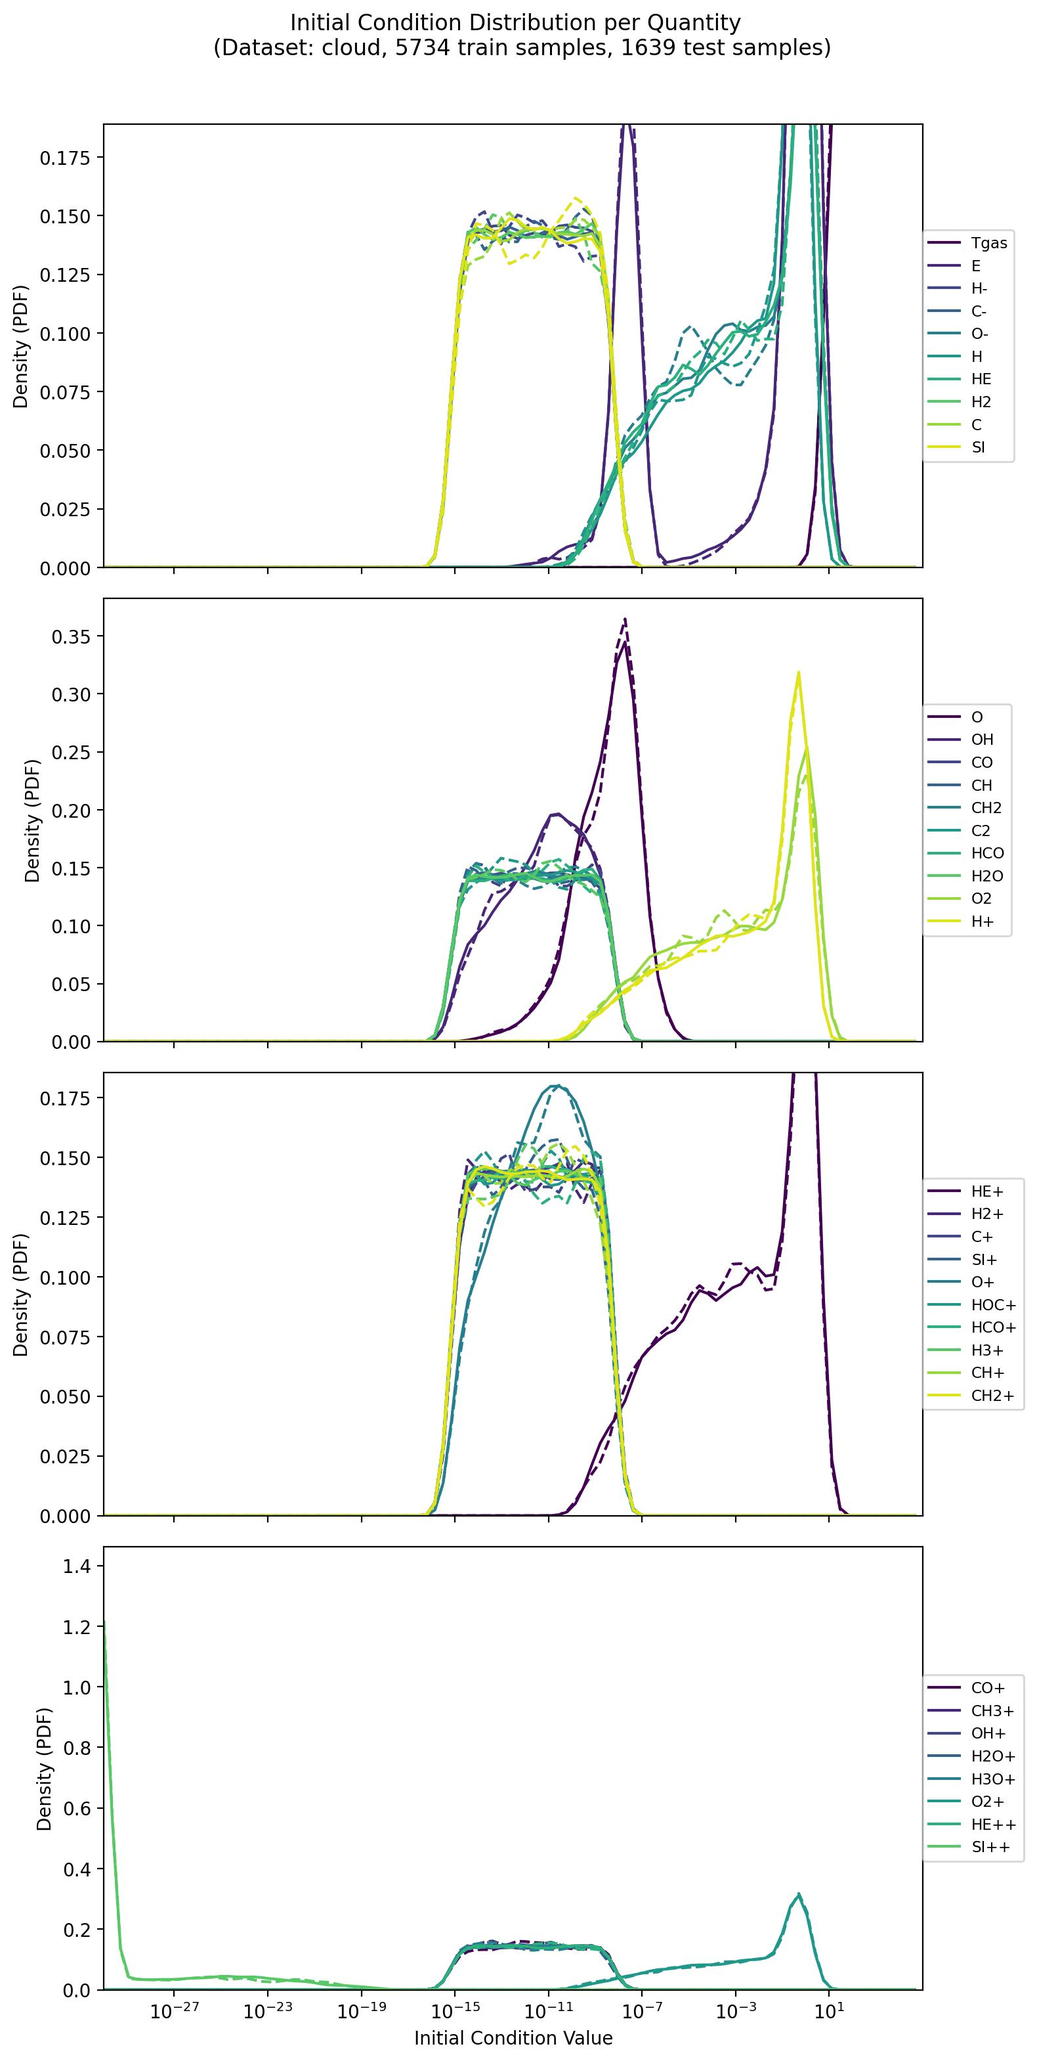
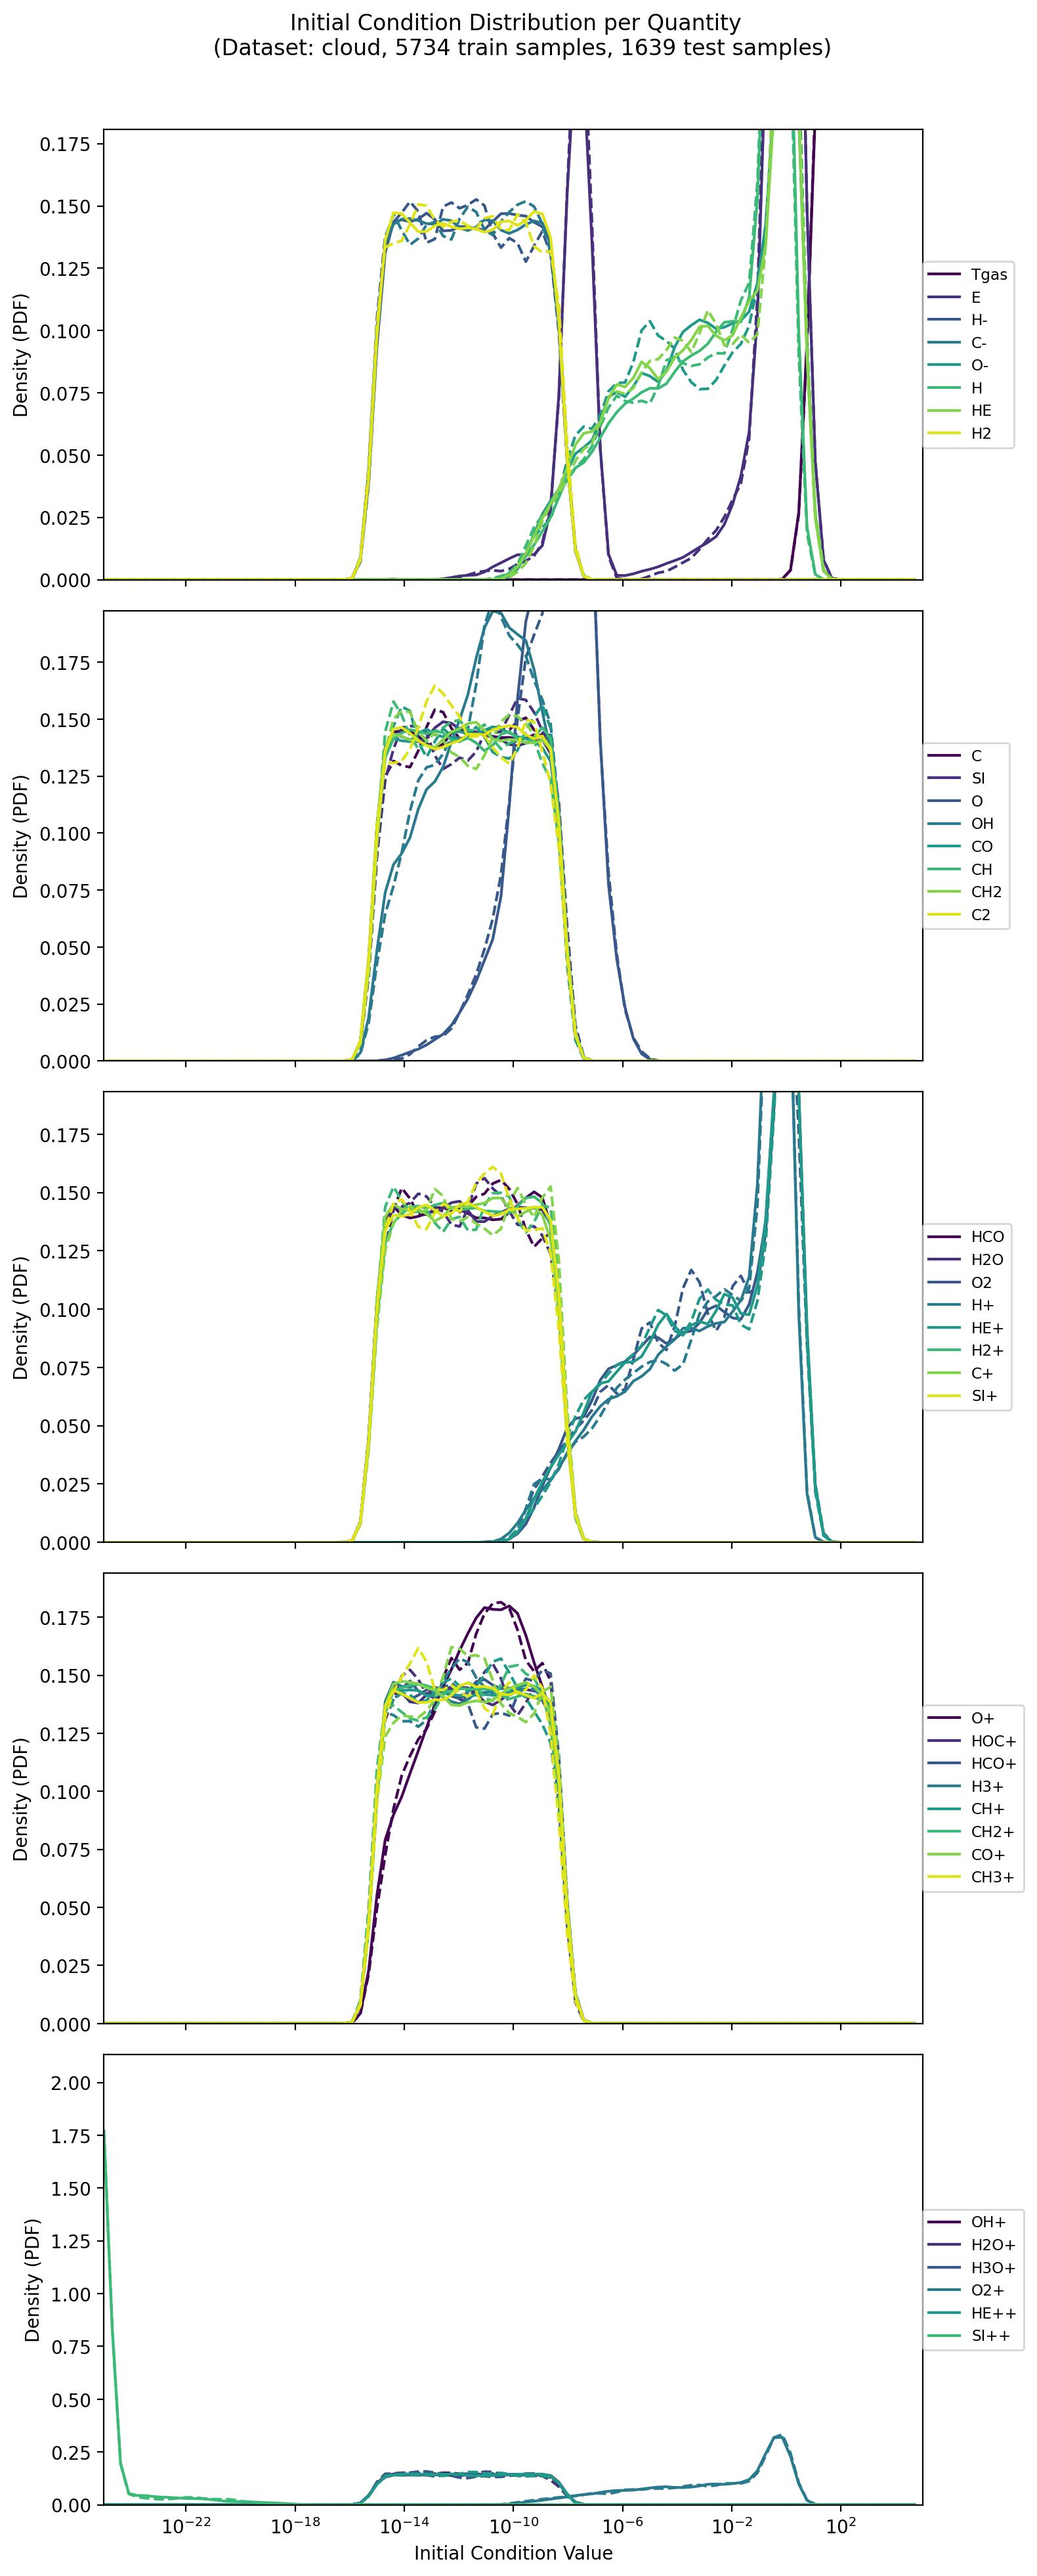
Add cloud_parametric, update plots

diff --git a/datasets/_data_analysis/analyse_all_datasets.py b/datasets/_data_analysis/analyse_all_datasets.py
@@ -33,11 +33,12 @@ def main():
     Main function to analyse the dataset. It checks the dataset and loads the data.
     """
     datasets = [
+        "primordial_parametric",
+        "primordial",
+        "cloud_parametric",
         "cloud",
         "lv_parametric",
         "lv_parametric_no_params",
-        "primordial_parametric",
-        "primordial",
         "simple_reaction",
         "osutest2",
         "coupled_oscillators",
@@ -102,6 +103,7 @@ def main():
             labels=labels,
             sample_idx=86,
             log=log,
+            log_time=dataset_dict[dataset].get("log_time", False),
             quantities_per_plot=qpp,
             show_title=TITLE,
         )

diff --git a/datasets/_data_analysis/data_plots.py b/datasets/_data_analysis/data_plots.py
@@ -21,6 +21,7 @@ def plot_example_trajectories(
     save: bool = False,
     sample_idx: int = 0,
     log: bool = False,
+    log_time: bool = False,
     quantities_per_plot: int = 6,
     show_title: bool = True,
 ) -> None:
@@ -61,6 +62,8 @@ def plot_example_trajectories(
             borderaxespad=0.0,
             fontsize="small",
         )
+        if log_time:
+            ax.set_xscale("log")
 
     for ax in axes[num_plots:]:
         ax.set_visible(False)

diff --git a/datasets/_data_analysis/dataset_dict.py b/datasets/_data_analysis/dataset_dict.py
@@ -75,8 +75,14 @@ dataset_dict = {
     },
     "cloud": {
         "log": True,
-        "qpp": 10,
-        "tol": 1e-30,
+        "qpp": 8,
+        "tol": 1e-25,
+        "log_time": True,
+    },
+    "cloud_parametric": {
+        "log": True,
+        "qpp": 8,
+        "tol": 1e-25,
         "log_time": True,
     },
 }

diff --git a/codes/tune/optuna_fcts.py b/codes/tune/optuna_fcts.py
@@ -122,6 +122,7 @@ def make_optuna_params(trial: optuna.Trial, optuna_params: dict) -> dict:
 
     return suggested
 
+
 def create_objective(
     config: dict, study_name: str, device_queue: queue.Queue
 ) -> callable:
